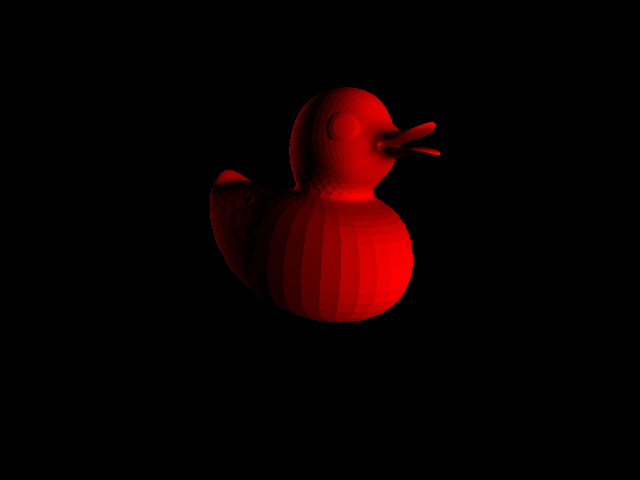
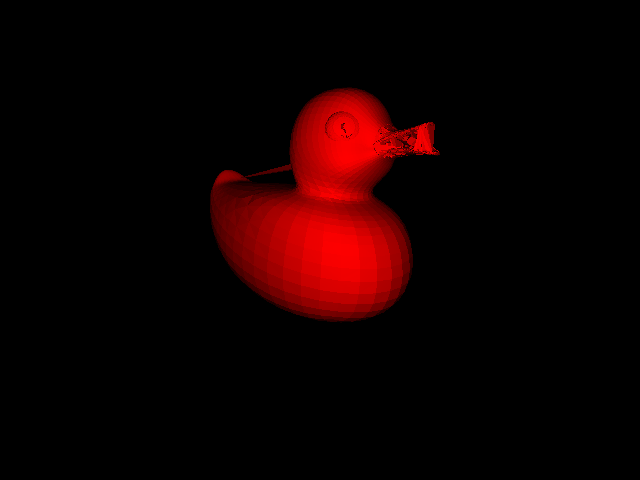
Code Refactoring 1
Oh god, here we go.

Changed region(s): [[0.3125, 0.1875, 0.6875, 0.6875]]

diff --git a/rt_main.cpp b/rt_main.cpp
@@ -4,6 +4,7 @@
 #include <vector>
 #include <string>
 #include <algorithm>
+#include <cmath>
 #include "include/algorithms.h"
 #include "include/helper.h"
 #include "include/lodepng.h"
@@ -69,35 +70,6 @@ void NORMALIZE(T * V0){
 	}
 }
 
-float rti_mt(rt::ray * r, obj::tri * triangle) {
-	obj::vec e1 = SUB<obj::vec>(triangle->b, triangle->a);
-	obj::vec e2 = SUB<obj::vec>(triangle->c, triangle->a);
-	
-	// Calculate planes normal vector
-	obj::vec pvec = CROSS<obj::vec>(&r->dir, &e2);
-	float det = DOT(&e1, &pvec);
-	
-	// Ray parallel to plane
-	if(det< 1e-8 && det > -1e-8) {
-		return 0;
-	}
-	
-	float inv_det = 1/det;
-	obj::vec tvec = SUB<obj::vec>(&r->orig, triangle->a);
-	float u = DOT(&tvec, &pvec) * inv_det;
-	
-	if(u < 0 || u > 1){
-		return 0.0;
-	}
-	
-	obj::vec qvec = CROSS<obj::vec>(&tvec, &e1);
-	float v = DOT(&r->dir, &qvec) * inv_det;
-	if(v < 0 || u + v > 1) {
-		return 0;
-	}
-	
-	return DOT(&e2, &qvec) * inv_det;
-}
 
 // This file will be for testing out our ray tracing algorithms
 int main() {
@@ -164,22 +136,7 @@ int main() {
             auto current_face = current_group.faces[iface];
                 for(int ivertex = 0; ivertex < current_face.vertices.size(); ivertex++){// each vertex in each face.
                     vp = scene_models[imodel].groups[igroup].faces[iface].vertices[ivertex];
-                    /*
-                    std::cout 
-                    << "X: " << scene_models[imodel].groups[igroup].faces[iface].vertices[ivertex]->x << std::endl 
-                    << "Y: " << scene_models[imodel].groups[igroup].faces[iface].vertices[ivertex]->y << std::endl 
-                    << "Z: " << scene_models[imodel].groups[igroup].faces[iface].vertices[ivertex]->z << std::endl;
-                    */
-                    /* Simple translate and scale for the model.
-                    scene_models[imodel].groups[igroup].faces[iface].vertices[ivertex]->x += 0.5;
-                    scene_models[imodel].groups[igroup].faces[iface].vertices[ivertex]->y += 0.5;
-                    scene_models[imodel].groups[igroup].faces[iface].vertices[ivertex]->z += 0.5;
-                    
-                    scene_models[imodel].groups[igroup].faces[iface].vertices[ivertex]->x *= 0.5;
-                    scene_models[imodel].groups[igroup].faces[iface].vertices[ivertex]->y *= 0.5;
-                    scene_models[imodel].groups[igroup].faces[iface].vertices[ivertex]->z *= 0.5;
-                    */
-                    /* We're going to make sure that all our vertices are placed in a spot that is > 0. */
+
                     if(centered == false){
                         vtx_list.push_back(vp);
                         if((vp->x < 0) && (vp->x < tvector->x))
@@ -191,12 +148,6 @@ int main() {
                         if((vp->z < 0) && (vp->z < tvector->z))
                             tvector->z = vp->z;
                     }
-                    /*
-                    std::cout 
-                    << "mX: " << scene_models[imodel].groups[igroup].faces[iface].vertices[ivertex]->x << std::endl
-                    << "mY: " << scene_models[imodel].groups[igroup].faces[iface].vertices[ivertex]->y << std::endl 
-                    << "mZ: " << scene_models[imodel].groups[igroup].faces[iface].vertices[ivertex]->z << std::endl;
-                    */
                 }
             }
             //std::cout << "Group " << current_group.name << " done" << std::endl;
@@ -237,12 +188,6 @@ int main() {
     //    vtx_list[ivtx]->y = vtx_list[ivtx]->y - tvector->y - 20;
     //    vtx_list[ivtx]->z = vtx_list[ivtx]->z - tvector->z;
     //}
-    obj::vtx Va = {-0.5,-0.5,1};
-    obj::vtx Vb = {0.5,-0.5,1};
-    obj::vtx Vc = {0,0.5,1};
-    obj::vec L = {0, 0, 1};
-    obj::tri test_tri = {&Va, &Vb, &Vc};
-    std::cout << "Testing for a basic ray-triangle intersection: " << rti_mt(&test_ray, &test_tri) << std::endl;
     int closest_tri = 0;
     float closest_distance = 0;
     
@@ -261,7 +206,7 @@ int main() {
         
 		for(int itri = 0; itri < scene_models[0].triangles.size(); itri++){
 			rt::ray * pr = test_camera.get_ray(pos_z, pos_y);
-			rti_hit = rti_mt(pr, scene_models[0].triangles[itri]);
+			rti_hit = rt::rti_mt(pr, scene_models[0].triangles[itri]);
 			if(rti_hit > 0.0) {
 				if(closest_tri == -1) {
 					closest_tri = itri;
@@ -277,27 +222,13 @@ int main() {
 				e2 = SUB<obj::vec>(scene_models[0].triangles[closest_tri]->a, scene_models[0].triangles[closest_tri]->c);
 				N = CROSS<obj::vec>(&e1, &e2);
 				NORMALIZE(&N);
-				LdotN = DOT(&L, &N);
-				std::cout << "LdotN " << LdotN << std::endl;
-				image[4 * width * pos_y + 4 * pos_z + 0] = abs(255 *LdotN);
+				LdotN = DOT(&pr->dir, &N);
+				std::cout << "LdotN " << std::abs((int)(255 * LdotN)) << std::endl;
+				image[4 * width * pos_y + 4 * pos_z + 0] = std::abs((int)(255 * LdotN));
 				image[4 * width * pos_y + 4 * pos_z + 1] = 0;
 				image[4 * width * pos_y + 4 * pos_z + 2] = 0;
 				image[4 * width * pos_y + 4 * pos_z + 3] = 255;
-				
-				
-			//	std::cout << "(" << pos_z << ", " << pos_y << ") " << "HIT: " << itri << std::endl;
-			//	std::cout << "RAY.d: (" << pr->dir.x << ", " << pr->dir.y << ", " << pr->dir.z << ")" << std::endl;
-			//	std::cout << "A(" << scene_models[0].triangles[itri]->a->x << ", "
-			//					  << scene_models[0].triangles[itri]->a->y << ", "
-			//					  << scene_models[0].triangles[itri]->a->z << ") " << std::endl;
-			//
-			//	std::cout << "B(" << scene_models[0].triangles[itri]->b->x << ", "
-			//					  << scene_models[0].triangles[itri]->b->y << ", "
-			//					  << scene_models[0].triangles[itri]->b->z << ") " << std::endl;
-			//
-			//	std::cout << "C(" << scene_models[0].triangles[itri]->c->x << ", "
-			//					  << scene_models[0].triangles[itri]->c->y << ", "
-			//					  << scene_models[0].triangles[itri]->c->z << ") " << std::endl;
+
 			}
 		}
 		

diff --git a/include/rt.cpp b/include/rt.cpp
@@ -64,15 +64,56 @@ namespace rt {
         }
     }
     
+    inline float rti_mt(rt::ray * r, obj::tri * triangle) {
+        obj::vec e1 = SUB<obj::vec>(triangle->b, triangle->a);
+        obj::vec e2 = SUB<obj::vec>(triangle->c, triangle->a);
+        
+        // Calculate planes normal vector
+        obj::vec pvec = CROSS<obj::vec>(&r->dir, &e2);
+        float det = DOT(&e1, &pvec);
+        
+        // Ray parallel to plane
+        if(det< 1e-8 && det > -1e-8) {
+            return 0;
+        }
+        
+        float inv_det = 1/det;
+        obj::vec tvec = SUB<obj::vec>(&r->orig, triangle->a);
+        float u = DOT(&tvec, &pvec) * inv_det;
+        
+        if(u < 0 || u > 1){
+            return 0.0;
+        }
+        
+        obj::vec qvec = CROSS<obj::vec>(&tvec, &e1);
+        float v = DOT(&r->dir, &qvec) * inv_det;
+        if(v < 0 || u + v > 1) {
+            return 0;
+        }
+        
+        return DOT(&e2, &qvec) * inv_det;
+    }
+
+    
+    // Camera Class
+    
     camera::camera(){
 		this->pos = {0, 0, 0};
 		this->dir = {0, 0, 1};
 		this->up  = {0, 1, 0};
 		this->pov = 90.0;
 		this->rpp = 1;
-		this->pixelx = 640;
-		this->pixely = 480;
+		this->pixelx = 640; // Width
+		this->pixely = 480; // Height
+        this->image.resize(this->pixelx * this->pixely * 4);
 	}
+    int camera::get_pixelx(){
+        return this->pixelx;
+    }
+    
+    int camera::get_pixely(){
+        return this->pixely;
+    }
     
     rt::ray * camera::get_ray(int x, int y) {
         return this->rays[x][y];
@@ -95,34 +136,20 @@ namespace rt {
         cos_z = (new_dir.x * this->dir.x + new_dir.y * this->dir.y) / sqrt(new_dir.x * new_dir.x + new_dir.y * new_dir.y);
         if (!(cos_z == cos_z)) cos_z = 0;
         sin_z = sqrt(1 - cos_z * cos_z);
-        std::cout << "cos_z: " << cos_z << std::endl;
+        //std::cout << "cos_z: " << cos_z << std::endl;
+        
         // cos/sin y = xz plane
         cos_y = (new_dir.x * this->dir.x + new_dir.z * this->dir.z) / sqrt(new_dir.x * new_dir.x + new_dir.z * new_dir.z);
         if (!(cos_y == cos_y)) cos_y = 0;
         sin_y = sqrt(1 - cos_y * cos_y);
-        std::cout << "cos_y: " << cos_y << std::endl;
+        //std::cout << "cos_y: " << cos_y << std::endl;
+        
         // cos/sin x = yz plane
         cos_x = (new_dir.y * this->dir.y + new_dir.z * this->dir.z) / sqrt(new_dir.y * new_dir.y + new_dir.z * new_dir.z);
         if (!(cos_x == cos_x)) cos_x = 0;
         sin_x = sqrt(1 - cos_x * cos_x);
-        std::cout << "cos_x: " << cos_x << std::endl;
+        //std::cout << "cos_x: " << cos_x << std::endl;
 
-        // Matrix time...
-        /*std::vector<obj::vec> Rx;
-        Rx.push_back(obj::vec() {1,     0,         0});
-        Rx.push_back(obj::vec() {0, cos_x, 0 - sin_x});
-        Rx.push_back(obj::vec() {0, sin_x,     cos_x});
-        
-        std::vector<obj::vec> Ry;
-        Ry.push_back(obj::vec() {    cos_y, 0, sin_y});
-        Ry.push_back(obj::vec() {        0, 1,     0});
-        Ry.push_back(obj::vec() {0 - sin_y, 0, cos_y});
-
-        std::vector<obj::vec> Rz;
-        Rz.push_back(obj::vec() {cos_x,0 - sin_x,     0});
-        Rz.push_back(obj::vec() {sin_x,    cos_x,     0});
-        Rz.push_back(obj::vec() {    0,        0, cos_x});
-		*/
         NORMALIZE(&new_dir);        
         this->dir = new_dir;
         this->up = {0, 1, 0};  // Forever, Y is our up vector.
@@ -131,6 +158,18 @@ namespace rt {
         //            y : -1 * (this->up.x * (cos_z*cos_y) + this->up.y * (cos_z*sin_y*sin_x - sin_z*cos_x) + this->up.z * (sin_z*sin_x + cos_z*sin_y*cos_x)), 
         //            z : -1 * (this->up.x * (sin_z*cos_y) + this->up.y * (cos_z*cos_x + sin_z*sin_y*sin_x) + this->up.z * (sin_z*sin_y*cos_x - sin_x*cos_z))}; 
         //            std::cout << "X: " << this->up.x << " Y: " << this->up.y << " Z: " << this->up.z << std::endl;
+    }
+    
+    
+    void camera::clear_image(){
+        for(unsigned y = 0; y < this->pixely; y++)
+        for(unsigned x = 0; x < this->pixelx; x++)
+        {
+            this->image[4 * this->pixelx * y + 4 * x + 0] = 0;
+            this->image[4 * this->pixelx * y + 4 * x + 1] = 0;
+            this->image[4 * this->pixelx * y + 4 * x + 2] = 0;
+            this->image[4 * this->pixelx * y + 4 * x + 3] = 255;
+        }
     }
     
 	void camera::generate_rays(){
@@ -175,4 +214,34 @@ namespace rt {
 			}
 		}
 	}
+    
+    // Scene Class
+    scene::scene() {
+        
+    }
+    
+    void scene::add_camera(rt::camera Camera) {
+        cameras.push_back(Camera);
+    }
+    
+    void scene::add_model(obj::model Model) {
+        models.push_back(Model);
+    }
+    
+    void scene::add_light(rt::light Light) {
+        lights.push_back(Light);
+    }
+    
+    void scene::render() {
+        this->cameras[0].generate_rays();
+        float rti_hit;
+        for(int y = 0; y < this->cameras[0].get_pixely(); y++)
+        for(int x = 0; x < this->cameras[0].get_pixelx(); x++)
+        for(int itri = 0; itri < this->models[0].triangles.size(); itri++){
+            rt::ray * pr = this->cameras[0].get_ray(x, y);
+            rti_hit = rti_mt(pr, this->models[0].triangles[itri]);
+        }
+        
+    }
+        
 }

diff --git a/include/rt.h b/include/rt.h
@@ -5,14 +5,23 @@ namespace rt {
     template <class Ret, class T, class U>
     Ret CROSS(T * V1, U * V0);
     
+    
     struct ray {
         obj::vec dir;
         obj::vtx orig;
     };
+    
+    // Point light source
+    struct light {
+        obj::vtx orig;
+    };
+    
+    float rti_mt(rt::ray * r, obj::tri * triangle);
 
     class camera {
         private:
             std::vector<std::vector<rt::ray *>> rays;
+            std::vector<unsigned char> image;
             obj::vtx pos;
             obj::vec dir;
             obj::vec up;
@@ -20,12 +29,36 @@ namespace rt {
             int rpp;
             int pixelx;
             int pixely;
+            
         public:
             camera();
             void generate_rays();
+            void clear_image();
             void move(float x, float y, float z);
             void look_at(float x, float y, float z);
             rt::ray * get_ray(int x, int y);
+            int get_pixelx();
+            int get_pixely();
+    };
+    
+    class scene {
+        private:
+            std::vector<rt::camera> cameras;
+            std::vector<obj::model> models;
+            std::vector<rt::light> lights;
+            //std::vector<unsigned char> image;
+            // Acceleration structures?
+            
+            // Private functions
+            
+            
+        public:
+            scene();
+            void add_camera(rt::camera Camera);
+            void add_model(obj::model Model);
+            void add_light(rt::light Light);
+            void render();
+        
     };
     
     
